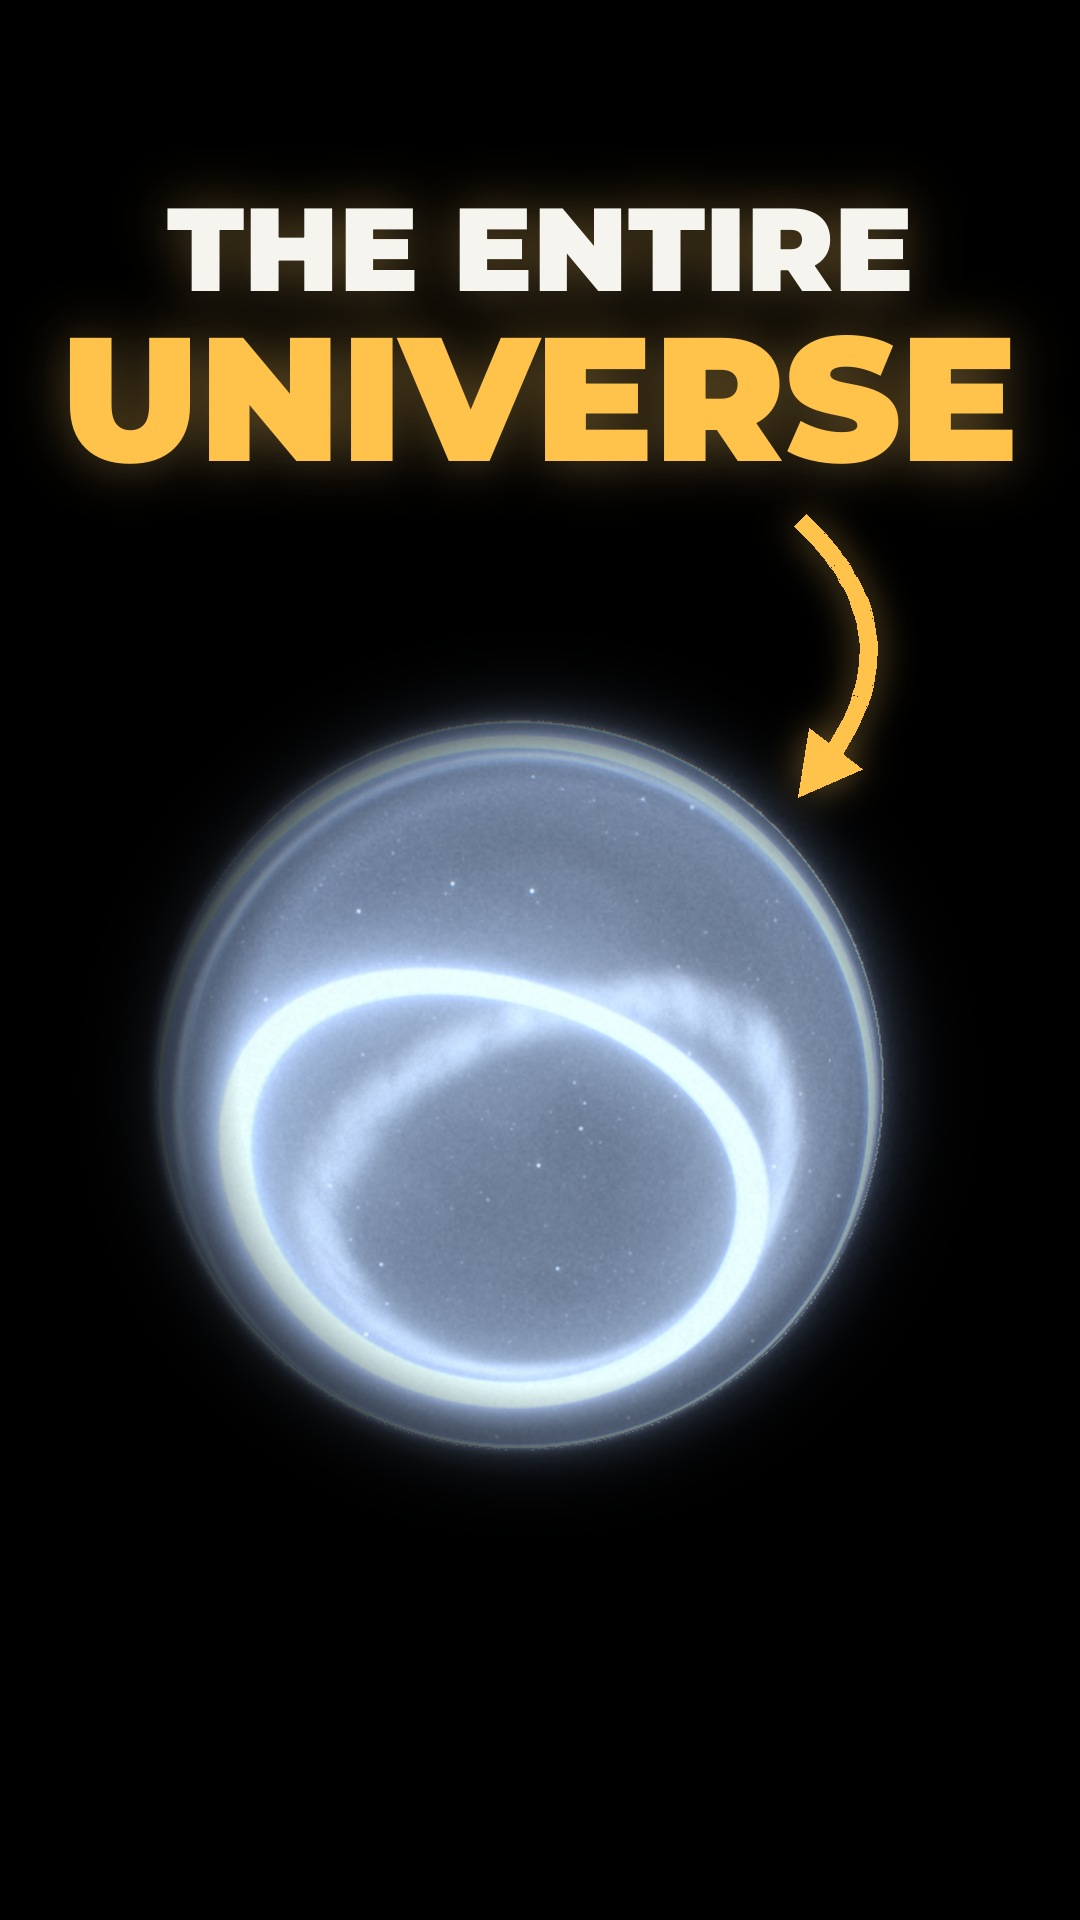
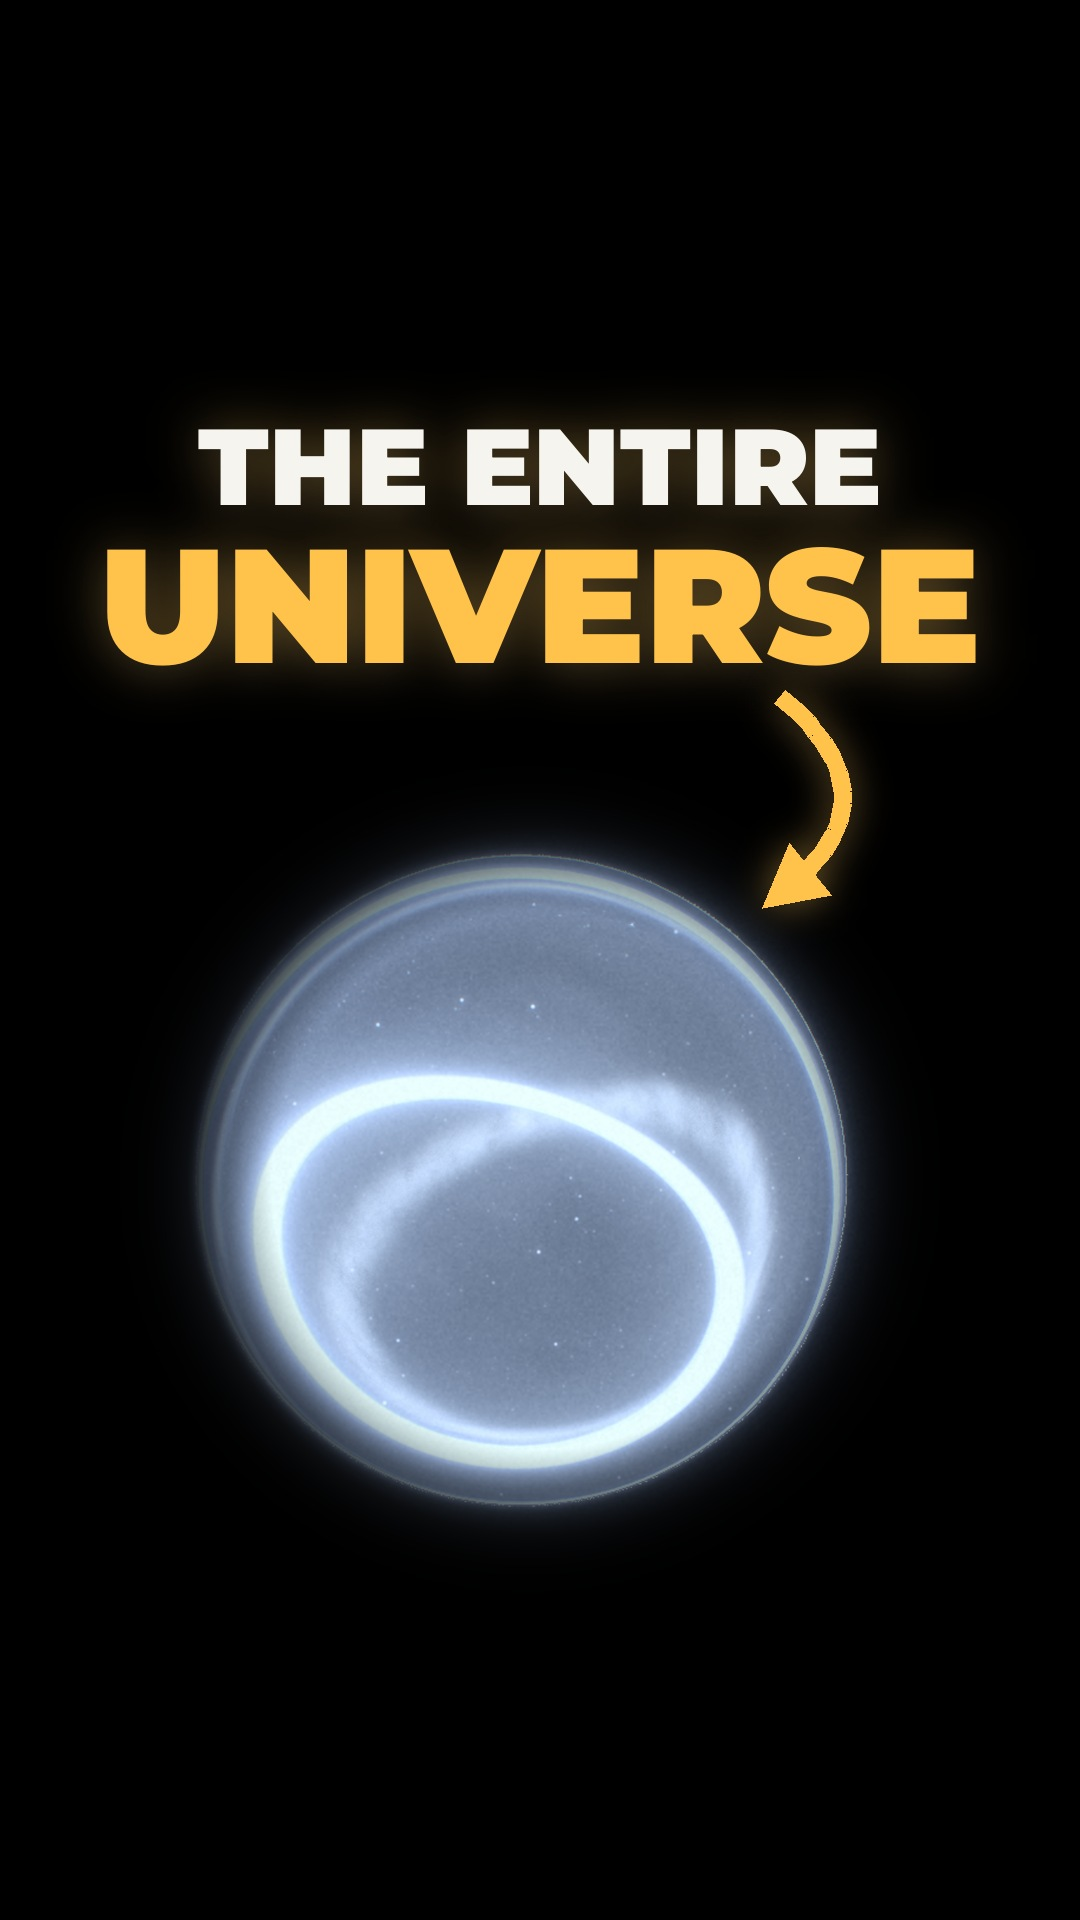
Thumbnail: centre the design so preview crops can't cut the top
Dot and text move down and shrink slightly: the design spans y 429-1513
(centre 971 of 1920), inside a 4:5 centre crop and clear of the bottom
20% title overlay.

Claude-Session: https://claude.ai/code/session_01MNL5YmTXZkUXD63pZjpkpR

diff --git a/shorts/blackhole/tools/thumbnail.py b/shorts/blackhole/tools/thumbnail.py
@@ -4,7 +4,8 @@
 
 It says the title's claim in other words (YouTube shows the title under the cover), keeps every mark out of the bottom
 20% (where the Shorts shelf lays the title over the cover), and leaves the black around the dot empty: that black is
-the answer the video gives.
+the answer the video gives.  The design is centred on the image (y 400-1530) so a preview that crops the top and
+bottom, down to a 4:5 centre crop, still shows all of it.
 """
 import math
 import os
@@ -22,7 +23,9 @@ W, H = ov.W, ov.H
 FRAME = os.path.join(HERE, '..', 'build', 'base', '02539.png')     # the clean dot the video opens and loops on
 OUT = os.path.join(HERE, '..', '..', '..', 'outputs', 'thumbnail.jpg')
 DOT = (540, 806, 300)          # the dot in the frame: centre and a radius that takes in its glow
-CENTRE, SCALE = (540, 1085), 1.32
+DOT_R = 278                    # the dot's visible radius in the frame
+CENTRE, SCALE = (540, 1180), 1.18
+TEXT_Y = 400                   # top of THE ENTIRE
 
 
 def dot_layer():
@@ -44,9 +47,9 @@ def dot_layer():
 
 def text_layer():
     lay = ov._layer(); d = ImageDraw.Draw(lay)
-    f1 = ov.font('Montserrat-Black.ttf', 118)
-    f2 = ov.font('Montserrat-Black.ttf', 176)
-    for txt, f, col, y in (('THE ENTIRE', f1, ov.WHITE, 176), ('UNIVERSE', f2, ov.GOLD, 290)):
+    f1 = ov.font('Montserrat-Black.ttf', 108)
+    f2 = ov.font('Montserrat-Black.ttf', 162)
+    for txt, f, col, y in (('THE ENTIRE', f1, ov.WHITE, TEXT_Y), ('UNIVERSE', f2, ov.GOLD, TEXT_Y + 106)):
         d.text((W / 2 - f.getlength(txt) / 2, y), txt, font=f, fill=col + (255,))
     lay = ov._glow(lay, ov.GOLD, 26, 0.35)
     return ov._shadowed(lay, 14, (0, 8), 0.95)
@@ -55,7 +58,9 @@ def text_layer():
 def arrow_layer():
     """A hand-drawn-looking arrow from under UNIVERSE, curving down onto the dot's rim."""
     lay = ov._layer(); d = ImageDraw.Draw(lay)
-    p0, p1, p2 = (800, 520), (930, 640), (812, 780)              # quadratic Bezier; ends just outside the rim
+    r = DOT_R * SCALE + 45                                       # ends just outside the rim, up and to the right
+    p2 = (CENTRE[0] + r * math.cos(math.radians(50)), CENTRE[1] - r * math.sin(math.radians(50)))
+    p0, p1 = (p2[0], TEXT_Y + 296), (p2[0] + 125, TEXT_Y + 400)  # quadratic Bezier from under UNIVERSE
     pts = []
     for k in range(41):
         s = k / 40

diff --git a/outputs/upload_pack.md b/outputs/upload_pack.md
@@ -53,7 +53,7 @@ YouTube says tags play only a small role, and most of the top reference Shorts h
 | Licence | Standard YouTube Licence | |
 | Remixing | Allow | Remixes and Shorts that sample it are free reach. |
 | Comments | On, sorted by Top | |
-| Cover / thumbnail | **Upload `outputs/thumbnail.jpg`** (1080×1920; `tools/thumbnail.py`). If your app only lets you pick a frame: the real M87* photo with OUR SOLAR SYSTEM circled inside it (about 0:14) | The dot from the first frame, big, with THE ENTIRE UNIVERSE and an arrow to it. It says the title's claim in other words, since the shelf shows the title under the cover, and nothing sits in the bottom 20% where the shelf lays the title over the image. The black around the dot is left empty: it's the video's answer. Readable at 180 px wide. |
+| Cover / thumbnail | **Upload `outputs/thumbnail.jpg`** (1080×1920; `tools/thumbnail.py`). If your app only lets you pick a frame: the real M87* photo with OUR SOLAR SYSTEM circled inside it (about 0:14) | The dot from the first frame, big, with THE ENTIRE UNIVERSE and an arrow to it. It says the title's claim in other words, since the shelf shows the title under the cover, and nothing sits in the bottom 20% where the shelf lays the title over the image. The design is centred (y 429–1513), so even a 4:5 centre crop keeps all of it. The black around the dot is left empty: it's the video's answer. Readable at 180 px wide. |
 
 ## Pinned comment
 
